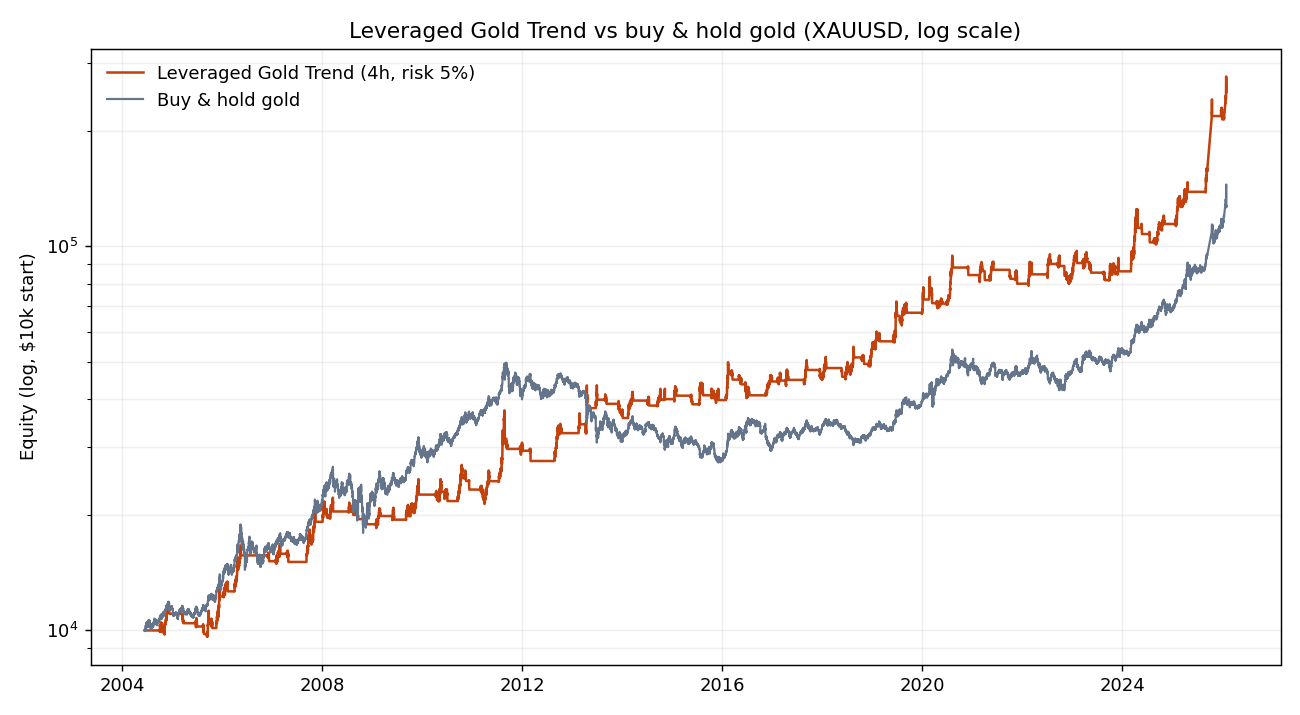
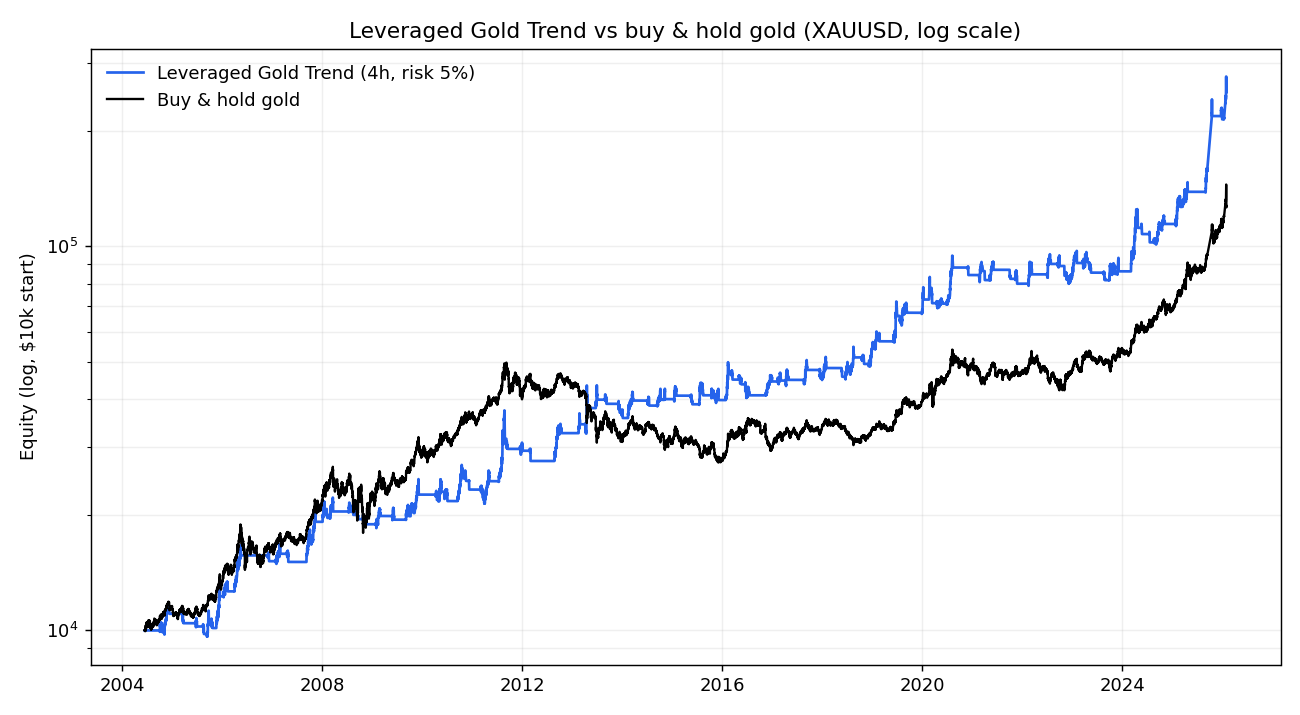
Add cross-timeframe comparison plots; recolor headline chart
- New comparison charts: all-timeframe equity overlay, risk/return scatter,
  anti-overfit gate heatmap, trade-count ('two ways to die'), MaxDD by timeframe.
- Recolor the headline equity chart: buy&hold black, strategy equity blue;
  introduce a shared palette (4h = amber accent) across all charts.
- Persist the 5 per-gate verdicts in timeframe_scan.csv so the gate heatmap is
  honest without re-running the gates; CSV regenerated via --scan.
- Wire all plots into --plots (auto re-scan if the CSV predates the gate columns).
- Embed every new chart in README.md with an explanation next to the relevant prose.

diff --git a/leveraged_gold_trend/plots.py b/leveraged_gold_trend/plots.py
@@ -1,4 +1,15 @@
-"""Generate the two README/LinkedIn charts (matplotlib, headless)."""
+"""Generate the README/LinkedIn charts (matplotlib, headless).
+
+Two families of chart:
+  * single-timeframe: the headline equity vs buy&hold (``equity_vs_gold``);
+  * cross-timeframe comparisons driven by ``results/timeframe_scan.csv`` — the equity overlay,
+    risk/return scatter, anti-overfit gate heatmap, trade-count ("two ways to die") and max-drawdown
+    charts. These read the precomputed scan so they stay fast (no strategy re-run), except the
+    equity overlay which rebuilds each timeframe's curve.
+
+Convention: buy&hold gold is always BLACK, strategy equity is BLUE, and 4h — the only timeframe
+clearing all five gates — is highlighted in AMBER across every comparison.
+"""
 
 from __future__ import annotations
 
@@ -8,6 +19,7 @@ import matplotlib
 
 matplotlib.use("Agg")
 import matplotlib.pyplot as plt  # noqa: E402
+import numpy as np  # noqa: E402
 import pandas as pd  # noqa: E402
 
 from . import validate  # noqa: E402
@@ -15,6 +27,37 @@ from . import validate  # noqa: E402
 PLOTS = Path(__file__).resolve().parent.parent / "results" / "plots"
 HEADLINE_RISK = 0.05
 ORDER = ["1m", "5m", "15m", "30m", "1h", "4h", "1d", "1w", "1mo"]
+SWEET_SPOT = "4h"
+
+# Shared palette.
+BENCHMARK_COLOR = "black"      # buy & hold gold
+EQUITY_COLOR = "#2563eb"       # strategy equity (blue)
+ACCENT = "#f59e0b"             # the 4h sweet spot (amber)
+MUTED = "#94a3b8"              # de-emphasised series/bars
+
+# Per-gate columns persisted by timeframe_scan, with short display labels.
+GATE_COLS = ["gate_wf", "gate_dd", "gate_dsr", "gate_cost3", "gate_mcpt"]
+GATE_LABELS = ["WF > B&H", "OOS DD ≤ B&H", "Deflated SR", "Cost 3×", "MCPT p<0.05"]
+
+
+def _gates_int(s: object) -> int:
+    """'5/5' -> 5."""
+    return int(str(s).split("/")[0])
+
+
+def _truthy(v: object) -> bool:
+    """Robust pass/fail read (handles bool, numpy bool, and 'True'/'False' strings from CSV)."""
+    if isinstance(v, str):
+        return v.strip().lower() == "true"
+    return bool(v)
+
+
+def _save(fig: plt.Figure, name: str) -> Path:
+    PLOTS.mkdir(parents=True, exist_ok=True)
+    out = PLOTS / name
+    fig.savefig(out, dpi=130)
+    plt.close(fig)
+    return out
 
 
 def equity_vs_gold(interval: str = "4h") -> Path:
@@ -22,19 +65,47 @@ def equity_vs_gold(interval: str = "4h") -> Path:
     eq = validate.equity_for(interval, {"risk_pct_per_trade": HEADLINE_RISK})
     bh = validate.benchmark(interval)
     fig, ax = plt.subplots(figsize=(10, 5.5))
-    ax.plot(eq.index, eq.values, lw=1.4, color="#c2410c", label=f"Leveraged Gold Trend ({interval}, risk 5%)")
-    ax.plot(bh.index, bh.values, lw=1.2, color="#64748b", label="Buy & hold gold")
+    ax.plot(eq.index, eq.values, lw=1.5, color=EQUITY_COLOR,
+            label=f"Leveraged Gold Trend ({interval}, risk 5%)")
+    ax.plot(bh.index, bh.values, lw=1.3, color=BENCHMARK_COLOR, label="Buy & hold gold")
     ax.set_yscale("log")
     ax.set_title("Leveraged Gold Trend vs buy & hold gold (XAUUSD, log scale)")
     ax.set_ylabel("Equity (log, $10k start)")
     ax.legend(loc="upper left", frameon=False)
     ax.grid(True, which="both", alpha=0.2)
     fig.tight_layout()
-    PLOTS.mkdir(parents=True, exist_ok=True)
-    out = PLOTS / "equity_4h_vs_gold.png"
-    fig.savefig(out, dpi=130)
-    plt.close(fig)
-    return out
+    return _save(fig, "equity_4h_vs_gold.png")
+
+
+def equity_all_timeframes() -> Path:
+    """Every timeframe's strategy equity (risk 5%) vs buy&hold gold, daily-resampled, log scale.
+
+    Curves are coloured fast→slow (hot red → cold blue); 4h is emphasised. Cost-bled fast
+    timeframes sit low and flat; the slow ones barely lever up. Buy&hold gold is the black line."""
+    fig, ax = plt.subplots(figsize=(11, 6))
+    cmap = plt.get_cmap("coolwarm")
+    n = len(ORDER)
+    for i, tf in enumerate(ORDER):
+        eq = validate.equity_for(tf, {"risk_pct_per_trade": HEADLINE_RISK})
+        eqd = eq.resample("1D").last().dropna()
+        sweet = tf == SWEET_SPOT
+        ax.plot(eqd.index, eqd.values,
+                lw=2.8 if sweet else 1.1,
+                color=ACCENT if sweet else cmap(1.0 - i / (n - 1)),
+                alpha=1.0 if sweet else 0.8,
+                zorder=6 if sweet else 2,
+                label=f"{tf} (sweet spot)" if sweet else tf)
+
+    bh = validate.benchmark("1d").resample("1D").last().dropna()
+    ax.plot(bh.index, bh.values, lw=2.4, color=BENCHMARK_COLOR, zorder=5, label="Buy & hold gold")
+
+    ax.set_yscale("log")
+    ax.set_title("Same strategy, every timeframe — equity vs buy & hold gold (XAUUSD, log scale)")
+    ax.set_ylabel("Equity (log, $10k start)")
+    ax.legend(loc="upper left", ncol=2, fontsize=8, frameon=False)
+    ax.grid(True, which="both", alpha=0.2)
+    fig.tight_layout()
+    return _save(fig, "equity_all_timeframes_vs_gold.png")
 
 
 def cost_decay(table: pd.DataFrame) -> Path:
@@ -63,8 +134,134 @@ def cost_decay(table: pd.DataFrame) -> Path:
     ax1.legend(h1 + h2, l1 + l2, loc="upper center", frameon=False, fontsize=9, ncol=2)
     ax1.set_title("How costs kill fast timeframes — same strategy, XAUUSD")
     fig.tight_layout()
-    PLOTS.mkdir(parents=True, exist_ok=True)
-    out = PLOTS / "cost_decay_by_timeframe.png"
-    fig.savefig(out, dpi=130)
-    plt.close(fig)
-    return out
+    return _save(fig, "cost_decay_by_timeframe.png")
+
+
+def risk_return_by_timeframe(table: pd.DataFrame) -> Path:
+    """Risk vs return scatter: CAGR × Sharpe per timeframe, bubble size = #trades, colour = number
+    of anti-overfit gates passed. 4h sits alone in the top-right with all five gates green."""
+    t = table.set_index("tf").reindex(ORDER)
+    gates = t["gates"].map(_gates_int)
+    sizes = np.sqrt(t["n_trades"].clip(lower=1).to_numpy()) * 13.0
+
+    fig, ax = plt.subplots(figsize=(10, 6))
+    sc = ax.scatter(t["full_cagr_pct"], t["full_sharpe"], s=sizes, c=gates,
+                    cmap="RdYlGn", vmin=0, vmax=5, edgecolor="black", lw=0.7, zorder=3)
+    for tf in ORDER:
+        ax.annotate(tf, (t.loc[tf, "full_cagr_pct"], t.loc[tf, "full_sharpe"]),
+                    xytext=(7, 6), textcoords="offset points", fontsize=9,
+                    fontweight="bold" if tf == SWEET_SPOT else "normal")
+
+    bh = float(t["bh_oos_sharpe"].dropna().median())
+    ax.axhline(bh, color=BENCHMARK_COLOR, ls=":", lw=1.2, label=f"Buy & hold gold Sharpe ≈ {bh:.2f}")
+
+    cbar = fig.colorbar(sc, ax=ax, ticks=range(6), pad=0.02)
+    cbar.set_label("Anti-overfit gates passed (of 5)")
+    ax.set_xlabel("CAGR (%, full sample)")
+    ax.set_ylabel("Sharpe (full sample)")
+    ax.set_title("Risk vs return by timeframe — bubble = #trades, colour = gates passed")
+    ax.legend(loc="lower right", frameon=False)
+    ax.grid(True, alpha=0.2)
+    fig.tight_layout()
+    return _save(fig, "risk_return_by_timeframe.png")
+
+
+def gates_heatmap(table: pd.DataFrame) -> Path:
+    """9 timeframes × 5 anti-overfit gates: green = pass, red = fail, grey = not tested (MCPT is
+    skipped on the ultra-fast bars). Only 4h is all-green."""
+    t = table.set_index("tf").reindex(ORDER)
+    mcpt_j = GATE_COLS.index("gate_mcpt")
+
+    M = np.zeros((len(ORDER), len(GATE_COLS)))
+    for i, tf in enumerate(ORDER):
+        for j, col in enumerate(GATE_COLS):
+            M[i, j] = 1.0 if _truthy(t.loc[tf, col]) else 0.0
+        if pd.isna(t.loc[tf, "mcpt_p"]):  # MCPT skipped -> mark as "not tested"
+            M[i, mcpt_j] = np.nan
+
+    cmap = matplotlib.colors.ListedColormap(["#ef4444", "#22c55e"])  # 0=fail (red), 1=pass (green)
+    cmap.set_bad("#cbd5e1")  # not tested (grey)
+
+    fig, ax = plt.subplots(figsize=(8.5, 6))
+    ax.imshow(np.ma.masked_invalid(M), cmap=cmap, vmin=0, vmax=1, aspect="auto")
+
+    for i, tf in enumerate(ORDER):
+        for j in range(len(GATE_COLS)):
+            v = M[i, j]
+            txt = "n/a" if np.isnan(v) else ("✓" if v == 1.0 else "✗")
+            ax.text(j, i, txt, ha="center", va="center", color="white",
+                    fontsize=13, fontweight="bold")
+
+    ax.set_xticks(range(len(GATE_LABELS)))
+    ax.set_xticklabels(GATE_LABELS, rotation=20, ha="right")
+    ax.set_yticks(range(len(ORDER)))
+    ax.set_yticklabels(ORDER)
+    for lbl in ax.get_yticklabels():
+        if lbl.get_text() == SWEET_SPOT:
+            lbl.set_fontweight("bold")
+            lbl.set_color(ACCENT)
+    ax.set_ylabel("Timeframe (fast → slow)")
+    ax.set_title("Anti-overfit gates by timeframe — only 4h clears all five")
+    fig.tight_layout()
+    return _save(fig, "gates_heatmap.png")
+
+
+def trades_by_timeframe(table: pd.DataFrame) -> Path:
+    """Two ways to die: trade count by timeframe (log scale). Fast timeframes generate hundreds-to-
+    thousands of trades from trailing-stop whipsaw (cost bleed); slow ones produce too few to be
+    statistically meaningful. 4h lands in the middle."""
+    t = table.set_index("tf").reindex(ORDER)
+    x = np.arange(len(ORDER))
+    colors = [ACCENT if tf == SWEET_SPOT else MUTED for tf in ORDER]
+
+    fig, ax = plt.subplots(figsize=(10, 5.5))
+    ax.bar(x, t["n_trades"].to_numpy(), color=colors)
+    ax.set_yscale("log")
+    ax.set_xticks(x)
+    ax.set_xticklabels(ORDER)
+    ax.set_xlabel("Timeframe (fast → slow)")
+    ax.set_ylabel("Number of trades (log)")
+
+    for xi, tf in zip(x, ORDER):
+        ax.annotate(f"{int(t.loc[tf, 'n_trades'])}", (xi, t.loc[tf, "n_trades"]),
+                    ha="center", va="bottom", fontsize=8)
+
+    arrow = dict(arrowstyle="->", lw=1.2)
+    ax.annotate("whipsaw → cost bleed\n(too many trades)",
+                xy=(0, t.loc["1m", "n_trades"]), xytext=(1.4, 1300),
+                fontsize=9, color="#b91c1c", ha="left",
+                arrowprops={**arrow, "color": "#b91c1c"})
+    ax.annotate("too few trades\n→ no statistical power",
+                xy=(len(ORDER) - 1, t.loc["1mo", "n_trades"]), xytext=(5.5, 170),
+                fontsize=9, color="#1d4ed8", ha="left",
+                arrowprops={**arrow, "color": "#1d4ed8"})
+
+    ax.set_title("Two ways to die: trade count by timeframe (same strategy, XAUUSD)")
+    fig.tight_layout()
+    return _save(fig, "trades_by_timeframe.png")
+
+
+def maxdd_by_timeframe(table: pd.DataFrame) -> Path:
+    """Max drawdown by timeframe: full sample vs walk-forward out-of-sample. Drawdowns plot
+    downward; 4h's bars are outlined in amber."""
+    t = table.set_index("tf").reindex(ORDER)
+    x = np.arange(len(ORDER))
+    w = 0.38
+    edges = [ACCENT if tf == SWEET_SPOT else "none" for tf in ORDER]
+    lws = [2.2 if tf == SWEET_SPOT else 0.0 for tf in ORDER]
+
+    fig, ax = plt.subplots(figsize=(10, 5.5))
+    ax.bar(x - w / 2, t["full_maxdd_pct"].to_numpy(), width=w, color=MUTED,
+           edgecolor=edges, linewidth=lws, label="Full sample")
+    ax.bar(x + w / 2, t["wf_oos_maxdd_pct"].to_numpy(), width=w, color=EQUITY_COLOR,
+           edgecolor=edges, linewidth=lws, label="Walk-forward OOS")
+    ax.axhline(0, color="black", lw=0.8)
+    ax.set_xticks(x)
+    ax.set_xticklabels(ORDER)
+    ax.set_xlabel("Timeframe (fast → slow)")
+    ax.set_ylabel("Max drawdown (%)")
+    ax.set_title("Max drawdown by timeframe — full sample vs walk-forward OOS")
+    ax.legend(frameon=False)
+    ax.grid(True, axis="y", alpha=0.2)
+    fig.tight_layout()
+    return _save(fig, "maxdd_by_timeframe.png")

diff --git a/leveraged_gold_trend/__main__.py b/leveraged_gold_trend/__main__.py
@@ -66,6 +66,10 @@ def main() -> None:
         from .timeframe_scan import RESULTS, scan
         csv = RESULTS / "timeframe_scan.csv"
         t = pd.read_csv(csv) if csv.exists() else scan(save=True, verbose=False)
+        # the gate heatmap needs the per-gate columns; re-scan once if the CSV predates them
+        if not set(plots.GATE_COLS).issubset(t.columns):
+            print("scan CSV missing per-gate columns; re-running scan ...")
+            t = scan(save=True, verbose=False)
         # headline metrics JSON (evidence for the README)
         p = validate.ppy("4h")
         m = metrics.from_equity(validate.equity_for("4h", {"risk_pct_per_trade": HEADLINE_RISK}), p)
@@ -76,7 +80,12 @@ def main() -> None:
             json.dumps({**{k: round(v, 4) for k, v in m.items()}, **ts}, indent=2), encoding="utf-8")
         print("wrote", RESULTS / "headline_4h_metrics.json")
         print("wrote", plots.equity_vs_gold("4h"))
+        print("wrote", plots.equity_all_timeframes())
         print("wrote", plots.cost_decay(t))
+        print("wrote", plots.risk_return_by_timeframe(t))
+        print("wrote", plots.gates_heatmap(t))
+        print("wrote", plots.trades_by_timeframe(t))
+        print("wrote", plots.maxdd_by_timeframe(t))
     else:
         _headline(args.interval, run_gates=args.validate)
 

diff --git a/leveraged_gold_trend/timeframe_scan.py b/leveraged_gold_trend/timeframe_scan.py
@@ -27,7 +27,9 @@ MCPT_N = {"1m": 0, "5m": 0, "15m": 0, "30m": 60, "1h": 100, "4h": 150, "1d": 200
 
 COLUMNS = ["tf", "bars", "n_trades", "full_cagr_pct", "full_sharpe", "full_maxdd_pct", "avg_lev",
            "cost_drag_pct", "cost3_sharpe", "wf_oos_sharpe", "bh_oos_sharpe", "wf_oos_maxdd_pct",
-           "dsr", "mcpt_p", "gates"]
+           "dsr", "mcpt_p", "gates",
+           # the 5 individual gate verdicts (so the heatmap plot is honest without re-running gates)
+           "gate_wf", "gate_dd", "gate_dsr", "gate_cost3", "gate_mcpt"]
 
 
 def scan(intervals=data.INTERVALS, save: bool = True, verbose: bool = True) -> pd.DataFrame:
@@ -63,6 +65,11 @@ def scan(intervals=data.INTERVALS, save: bool = True, verbose: bool = True) -> p
             "dsr": round(g["dsr"], 3),
             "mcpt_p": round(g["mcpt"]["p_value"], 3),
             "gates": f"{g['n_pass']}/5",
+            "gate_wf": g["checks"]["wf_beats_bh"],
+            "gate_dd": g["checks"]["oos_dd_le_bh"],
+            "gate_dsr": g["checks"]["dsr_gt_0p95"],
+            "gate_cost3": g["checks"]["cost3_beats_bh"],
+            "gate_mcpt": g["checks"]["mcpt_p_lt_0p05"],
         })
 
     table = pd.DataFrame(rows)[COLUMNS]

diff --git a/README.md b/README.md
@@ -165,6 +165,14 @@ p-value (blank where skipped for runtime); `gates` = how many of the 5 anti-over
 | 1w | 1.1k | 65 | 1.9% | 0.44 | −17% | 0.32 | 0.02% | 0.43 | 0.08 (0.54) | 0.588 | 0.154 | 1/5 |
 | 1mo | 260 | 55 | 1.2% | 0.56 | −6% | 0.15 | 0.01% | 0.55 | 0.43 (0.52) | 0.949 | 0.030 | 2/5 |
 
+The headline chart, but for **all nine timeframes at once** (each at `r = 5%`, daily-sampled, log
+scale). Only **4h** (amber) pulls clearly above buy-&-hold gold (black); the fast timeframes are
+dragged flat along the bottom by cost, and the slow ones barely lever up. One strategy, nine speeds —
+almost the entire spread between them is a cost-and-sample-size story, which the rest of this section
+unpacks.
+
+![Strategy equity for every timeframe vs gold](results/plots/equity_all_timeframes_vs_gold.png)
+
 ![Cost decay by timeframe](results/plots/cost_decay_by_timeframe.png)
 
 ### How costs "kill" the fast timeframes
@@ -176,6 +184,14 @@ fees. Why does turnover (and therefore cost) explode on fast bars even though th
 same number of days? Because the **trailing stop whipsaws**: on 1-minute bars the 5×ATR stop is hit
 and re-entered far more often within the *same* trend (2151 trades vs 112 on 4h), and every one of
 those round-trips pays the spread. Faster ≠ more edge; faster = **more friction**.
+
+![Trade count by timeframe — two ways to die](results/plots/trades_by_timeframe.png)
+
+This is the whole study in one chart — **two ways to die.** Trade count *explodes* toward fast bars
+(2151 at 1m, almost all of it trailing-stop whipsaw *within* the same trend) and *starves* toward
+slow ones (55 at monthly). The fast end pays that turnover away in spread; the slow end runs out of
+statistical evidence (next subsection). 4h (amber) lands where there are enough trades to mean
+something, yet few enough that cost stays a rounding error.
 
 And remember costs here are modelled at a *nominal* tight spread. Real intraday gold spreads in thin
 hours are wider, and **overnight financing is not charged at all** — both of which would punish the
@@ -200,6 +216,22 @@ costs are still a rounding error (0.29% drag; survives 3× cost with Sharpe 0.86
 sentence: **the right timeframe is the one where your edge is real *and* your costs are still
 negligible — and for leveraged gold trend, that's 4 hours.**
 
+![Risk vs return by timeframe](results/plots/risk_return_by_timeframe.png)
+
+Plotting every timeframe by return (x) against risk-adjusted return (y) — bubble size = number of
+trades, colour = anti-overfit gates passed — makes the sweet spot visually obvious: **4h sits alone
+in the top-right, dark green (5/5 gates).** The huge orange 1m bubble (most trades, lowest Sharpe, a
+single gate) is the cost cliff in one dot, and the small bubbles hugging the buy-&-hold line are the
+trade-starved slow timeframes.
+
+![Max drawdown by timeframe](results/plots/maxdd_by_timeframe.png)
+
+Drawdown tells the same story from the risk side: it is worst exactly where the leverage cap binds
+hardest (full-sample −47% at 1m, −41% at 30m), while 4h's −26% is among the mildest of the
+*leveraged* timeframes. The blue bars are the walk-forward out-of-sample drawdowns — and **every**
+timeframe clears the "OOS drawdown ≤ buy-&-hold gold" gate, because that ceiling is a hard constraint
+baked into the parameter selection, never a quantity we maximize.
+
 ---
 
 ## Methodology — why we believe it
@@ -221,6 +253,14 @@ are selected only on training data):
    structure), rebuild a synthetic price path, and re-run thousands of times. PASS if the real
    ordering's Sharpe beats the random ones with p < 0.05 — i.e. the edge comes from *trend*, not from
    curve-fitting.
+
+![Anti-overfit gates by timeframe](results/plots/gates_heatmap.png)
+
+Running all five gates across all nine timeframes makes the verdict unambiguous — **only 4h is green
+on every gate.** The fast timeframes (1m–15m) fail the cost-stress gate (1m fails most of them); the
+slow ones (1d–1mo) fail walk-forward and deflated-Sharpe for lack of trades. MCPT is marked *n/a* on
+the three fastest bars, where the permutation test is too expensive to run (the other columns already
+condemn them).
 
 We also built three variants and let the backtest pick (rather than arguing from authority):
 **(A)** the breakout + trailing-stop system above; **(B)** a continuous volatility-targeted EWMAC
@@ -266,7 +306,7 @@ python -m leveraged_gold_trend --plots                  # regenerate the charts
 ```
 
 The precomputed evidence is committed under [`results/`](results/) (the 9-timeframe table, the
-headline metrics JSON, and the two charts), so you can read the whole study without downloading
+headline metrics JSON, and all seven charts), so you can read the whole study without downloading
 anything or re-running the heavy 1-minute pass (which takes a couple of minutes).
 
 **Data:** Kaggle `novandraanugrah/xauusd-gold-price-historical-data-2004-2024`. Not redistributed
